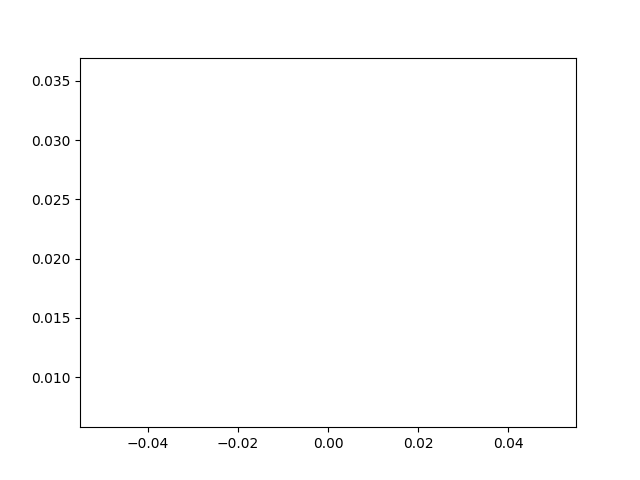
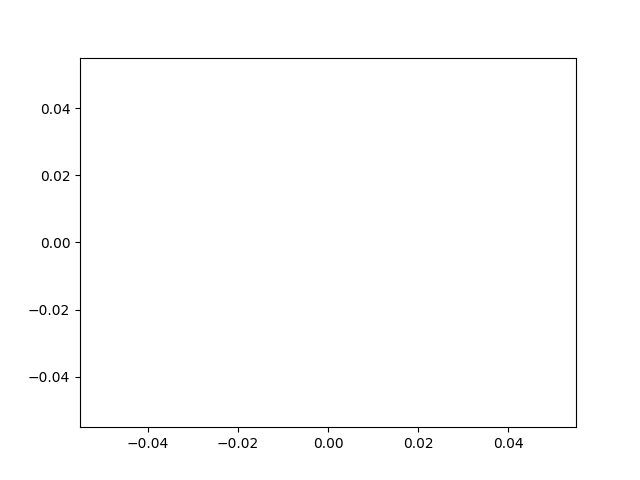
Ongoing 1K image fit keeps improving val error

diff --git a/eval.py b/eval.py
@@ -2,6 +2,11 @@ from train import *
 
 if __name__=="__main__":
 
+    criterion = nn.BCEWithLogitsLoss(reduction="sum")
+
+    val_persample_loss = 0.0
+    total_samples = 0
+
     sol = pd.read_csv("../data/sample_submission.csv")
     print(sol.shape)
     print(df.select_dtypes(include="number").iloc[0].sum())
@@ -10,11 +15,11 @@ if __name__=="__main__":
     model = BirdModel(NUM_CLASSES)
     model = model.to(DEVICE)
     model.load_state_dict(
-        torch.load("../bird_model20260528_170046.pth")
+        torch.load("../bird_model20260528_221947.pth")
     )
 
 
-    for x, y in tqdm(train_loader):
+    for x, y in tqdm(val_loader):
         x = x.to(DEVICE)
 
         model.eval()
@@ -28,4 +33,67 @@ if __name__=="__main__":
             torch.tensor(0.0, device=probs.device),
             probs
         )
-        print(probs)
+
+        loss = criterion(logits, y)
+
+        val_persample_loss += loss.item()/len(val_loader)
+
+    print(
+        f"Val per sample loss {val_persample_loss:.4f} | ")
+
+    """ ######### """
+    model.load_state_dict(
+        torch.load("../bird_model20260528_202956.pth")
+    )
+
+
+    for x, y in tqdm(val_loader):
+        x = x.to(DEVICE)
+
+        model.eval()
+
+        with torch.no_grad():
+            logits = model(x)
+
+        probs = torch.sigmoid(logits)
+        probs = torch.where(
+            probs < 1e-1,
+            torch.tensor(0.0, device=probs.device),
+            probs
+        )
+
+        loss = criterion(logits, y)
+
+        val_persample_loss += loss.item()/len(val_loader)
+
+    print(
+        f"Val per sample loss {val_persample_loss:.4f} | ")
+
+
+    """ ######### """
+    model.load_state_dict(
+        torch.load("../bird_model_4img.pth")
+    )
+
+
+    for x, y in tqdm(val_loader):
+        x = x.to(DEVICE)
+
+        model.eval()
+
+        with torch.no_grad():
+            logits = model(x)
+
+        probs = torch.sigmoid(logits)
+        probs = torch.where(
+            probs < 1e-1,
+            torch.tensor(0.0, device=probs.device),
+            probs
+        )
+
+        loss = criterion(logits, y)
+
+        val_persample_loss += loss.item()/len(val_loader)
+
+    print(
+        f"Val per sample loss {val_persample_loss:.4f} | ")

diff --git a/train.py b/train.py
@@ -36,9 +36,9 @@ if __name__=="__main__":
     DEVICE = "cpu"
     model = BirdModel(NUM_CLASSES)
     model = model.to(DEVICE)
-    """model.load_state_dict(
-        torch.load("../bird_model20260526_195539.pth")
-    )"""
+    model.load_state_dict(
+        torch.load("../bird_model20260528_202956.pth")
+    )
 
     model.eval()
     criterion = nn.BCEWithLogitsLoss()
@@ -52,7 +52,9 @@ if __name__=="__main__":
     for epoch in range(200):
 
         model.train()
-        train_loss = 0
+
+        ########
+        train_persample_loss = 0
 
         for x, y in tqdm(train_loader):
 
@@ -66,25 +68,24 @@ if __name__=="__main__":
             loss.backward()
             optimizer.step()
 
-            train_loss += loss.item()
-            losses.append(loss.item())
+            train_persample_loss += loss.item()/len(train_loader)
 
             model.eval()
-            val_loss = 0
-            with torch.no_grad():
 
-                for x, y in val_loader:
-                    x = x.to(DEVICE)
-                    y = y.to(DEVICE)
+        ########
+        val_persample_loss = 0
+        with torch.no_grad():
 
-                    logits = model(x)
-                    loss = criterion(logits, y)
-                    val_loss += loss.item()
+            for x, y in val_loader:
+                x = x.to(DEVICE)
+                y = y.to(DEVICE)
 
-            val_loss /= len(val_loader)
-            val.append(loss.item())
+                logits = model(x)
+                loss = criterion(logits, y)
 
-        train_loss /= len(train_loader)
+                val_persample_loss += loss.item()/len(val_loader)
+
+
 
         if epoch % 3 == 0:
 
@@ -100,4 +101,5 @@ if __name__=="__main__":
 
     print(
         f"Epoch {epoch+1} | "
-        f"Train {train_loss:.4f} | ")
+        f"Train per sample loss {train_persample_loss:.4f} | "
+        f"Val per sample loss {val_persample_loss:.4f} | ")

diff --git a/dataset.py b/dataset.py
@@ -96,7 +96,7 @@ class BirdDataset(Dataset):
         return mel, target
 
 
-df = pd.read_csv("../data/train_tiny.csv").iloc[:10]
+df = pd.read_csv("../data/train.csv").iloc[:1000]
 print(df.shape)
 df = df.dropna(subset=["filename", "primary_label"])
 
@@ -124,11 +124,11 @@ label2id = {
 NUM_CLASSES = 235
 
 
-print(f"N of species in data: {len(label2id)}")
+"""print(f"N of species in data: {len(label2id)}")
 print([
     label2id[label]
     for label in df["primary_label"].unique()
-])
+])"""
 
 train_df, val_df = train_test_split(
     df,
